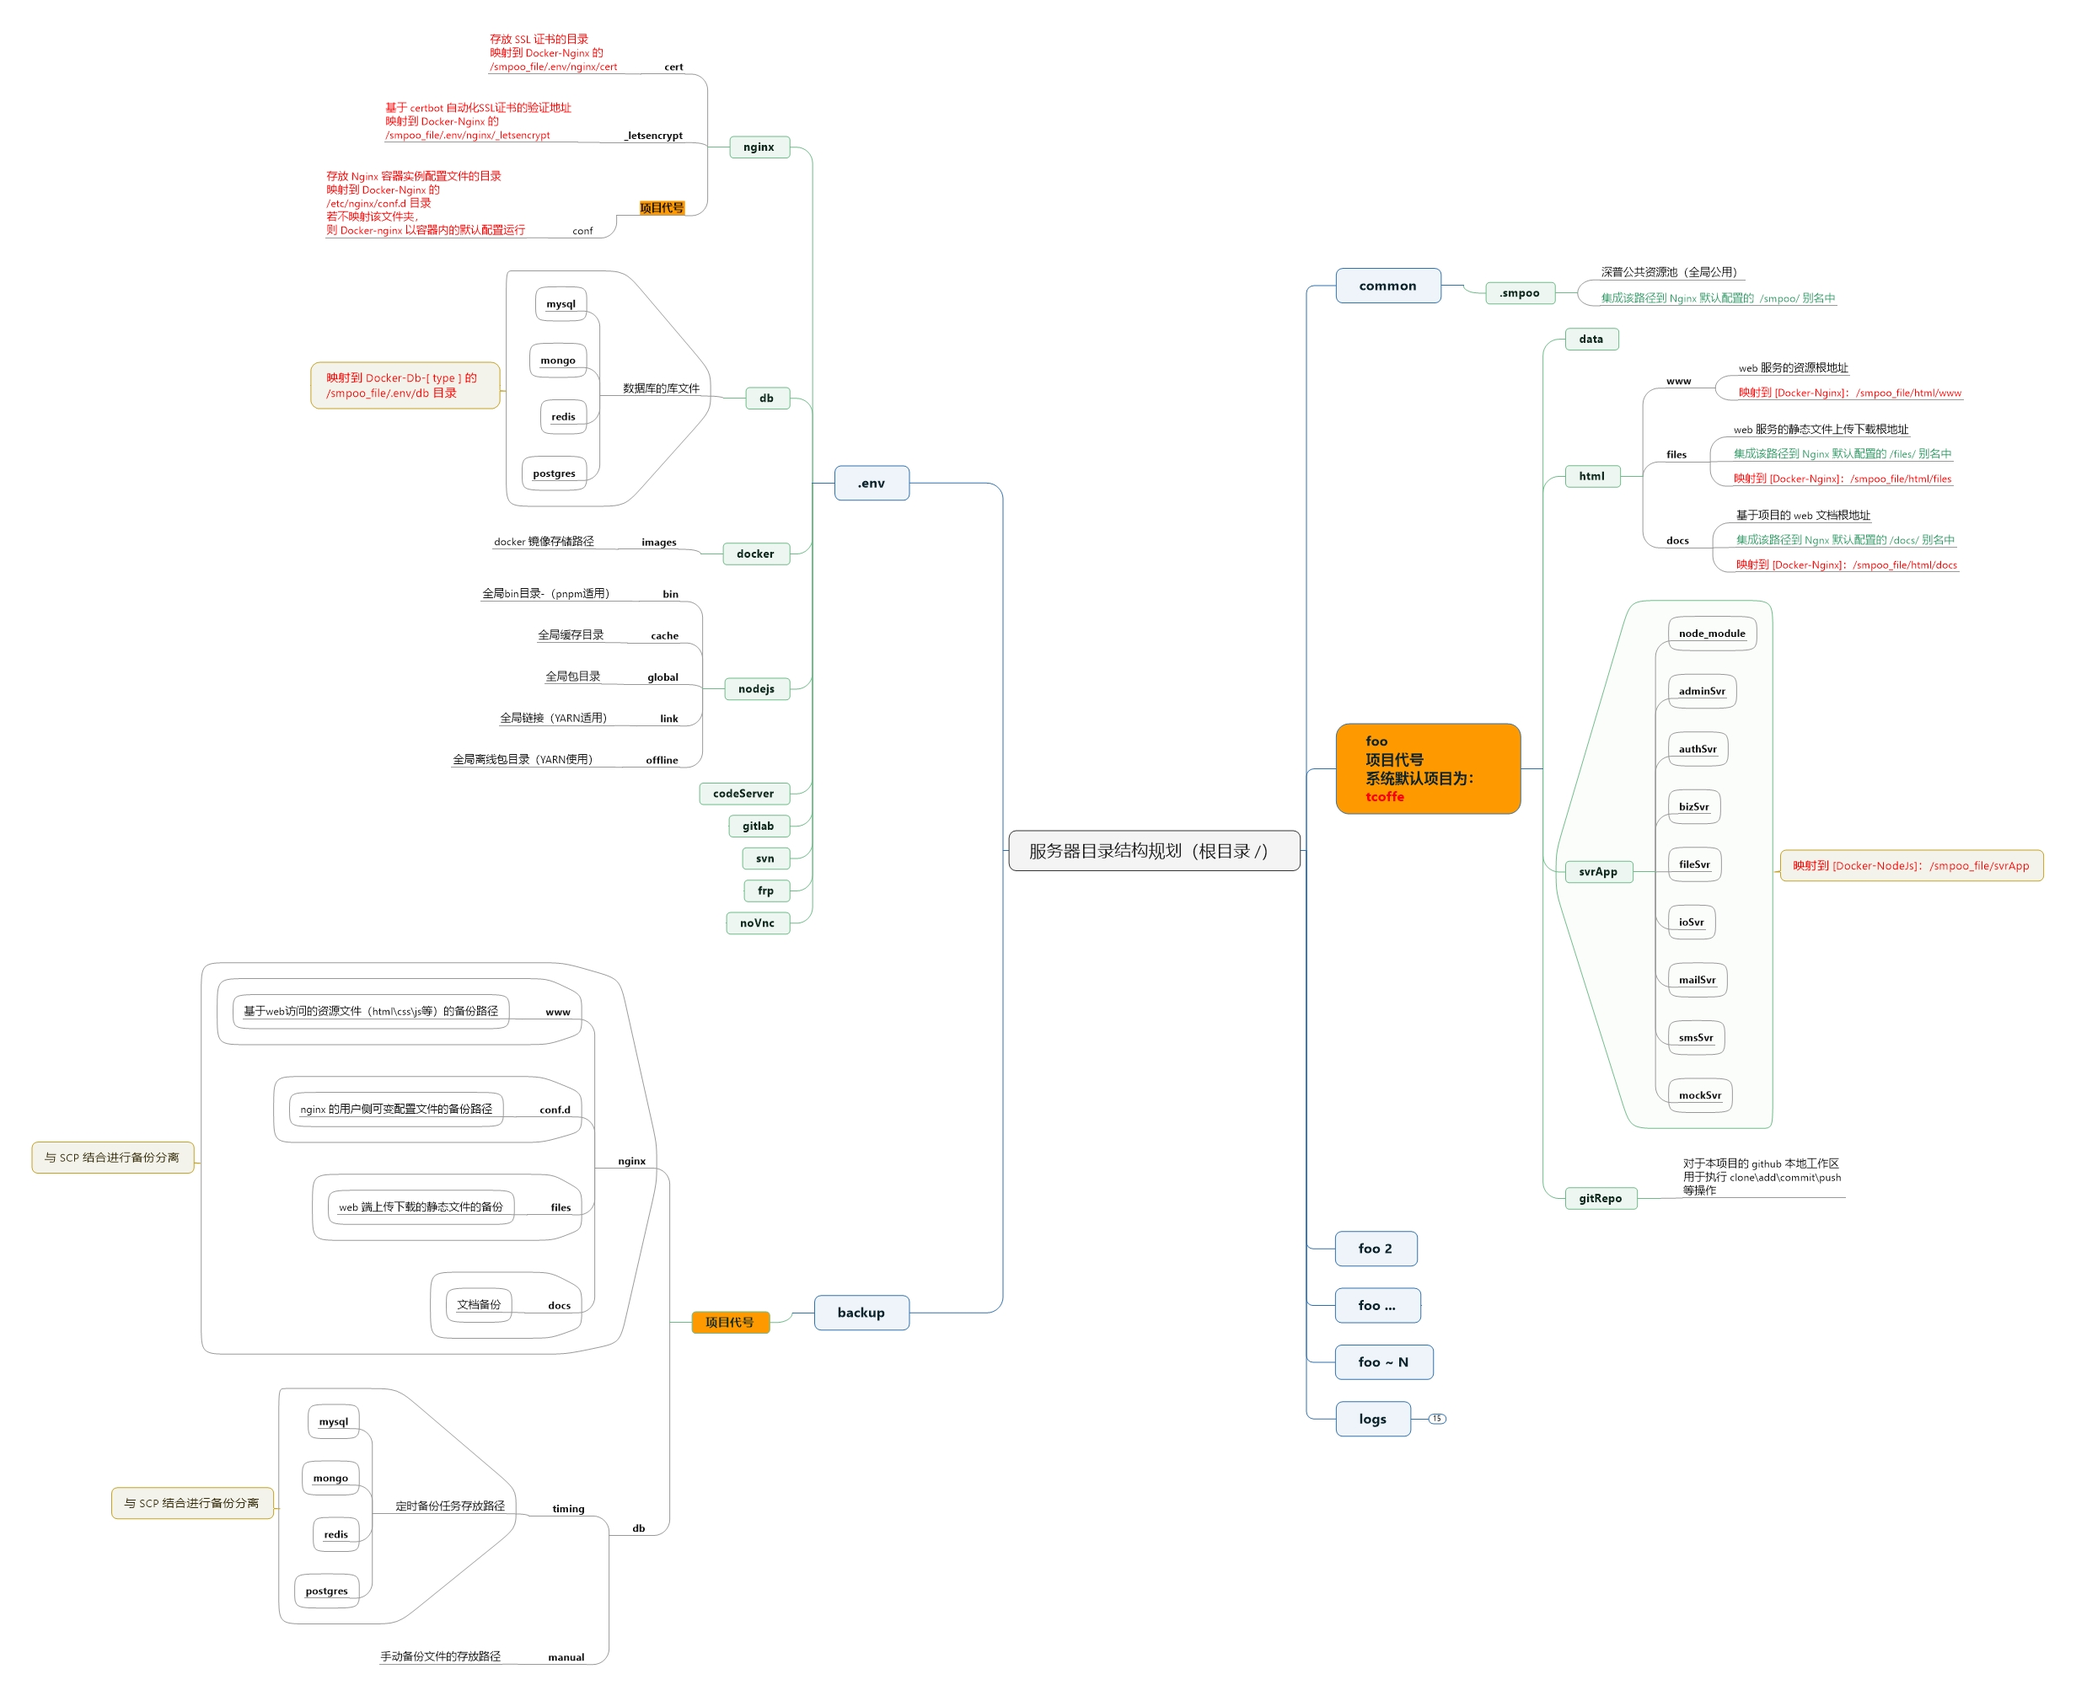
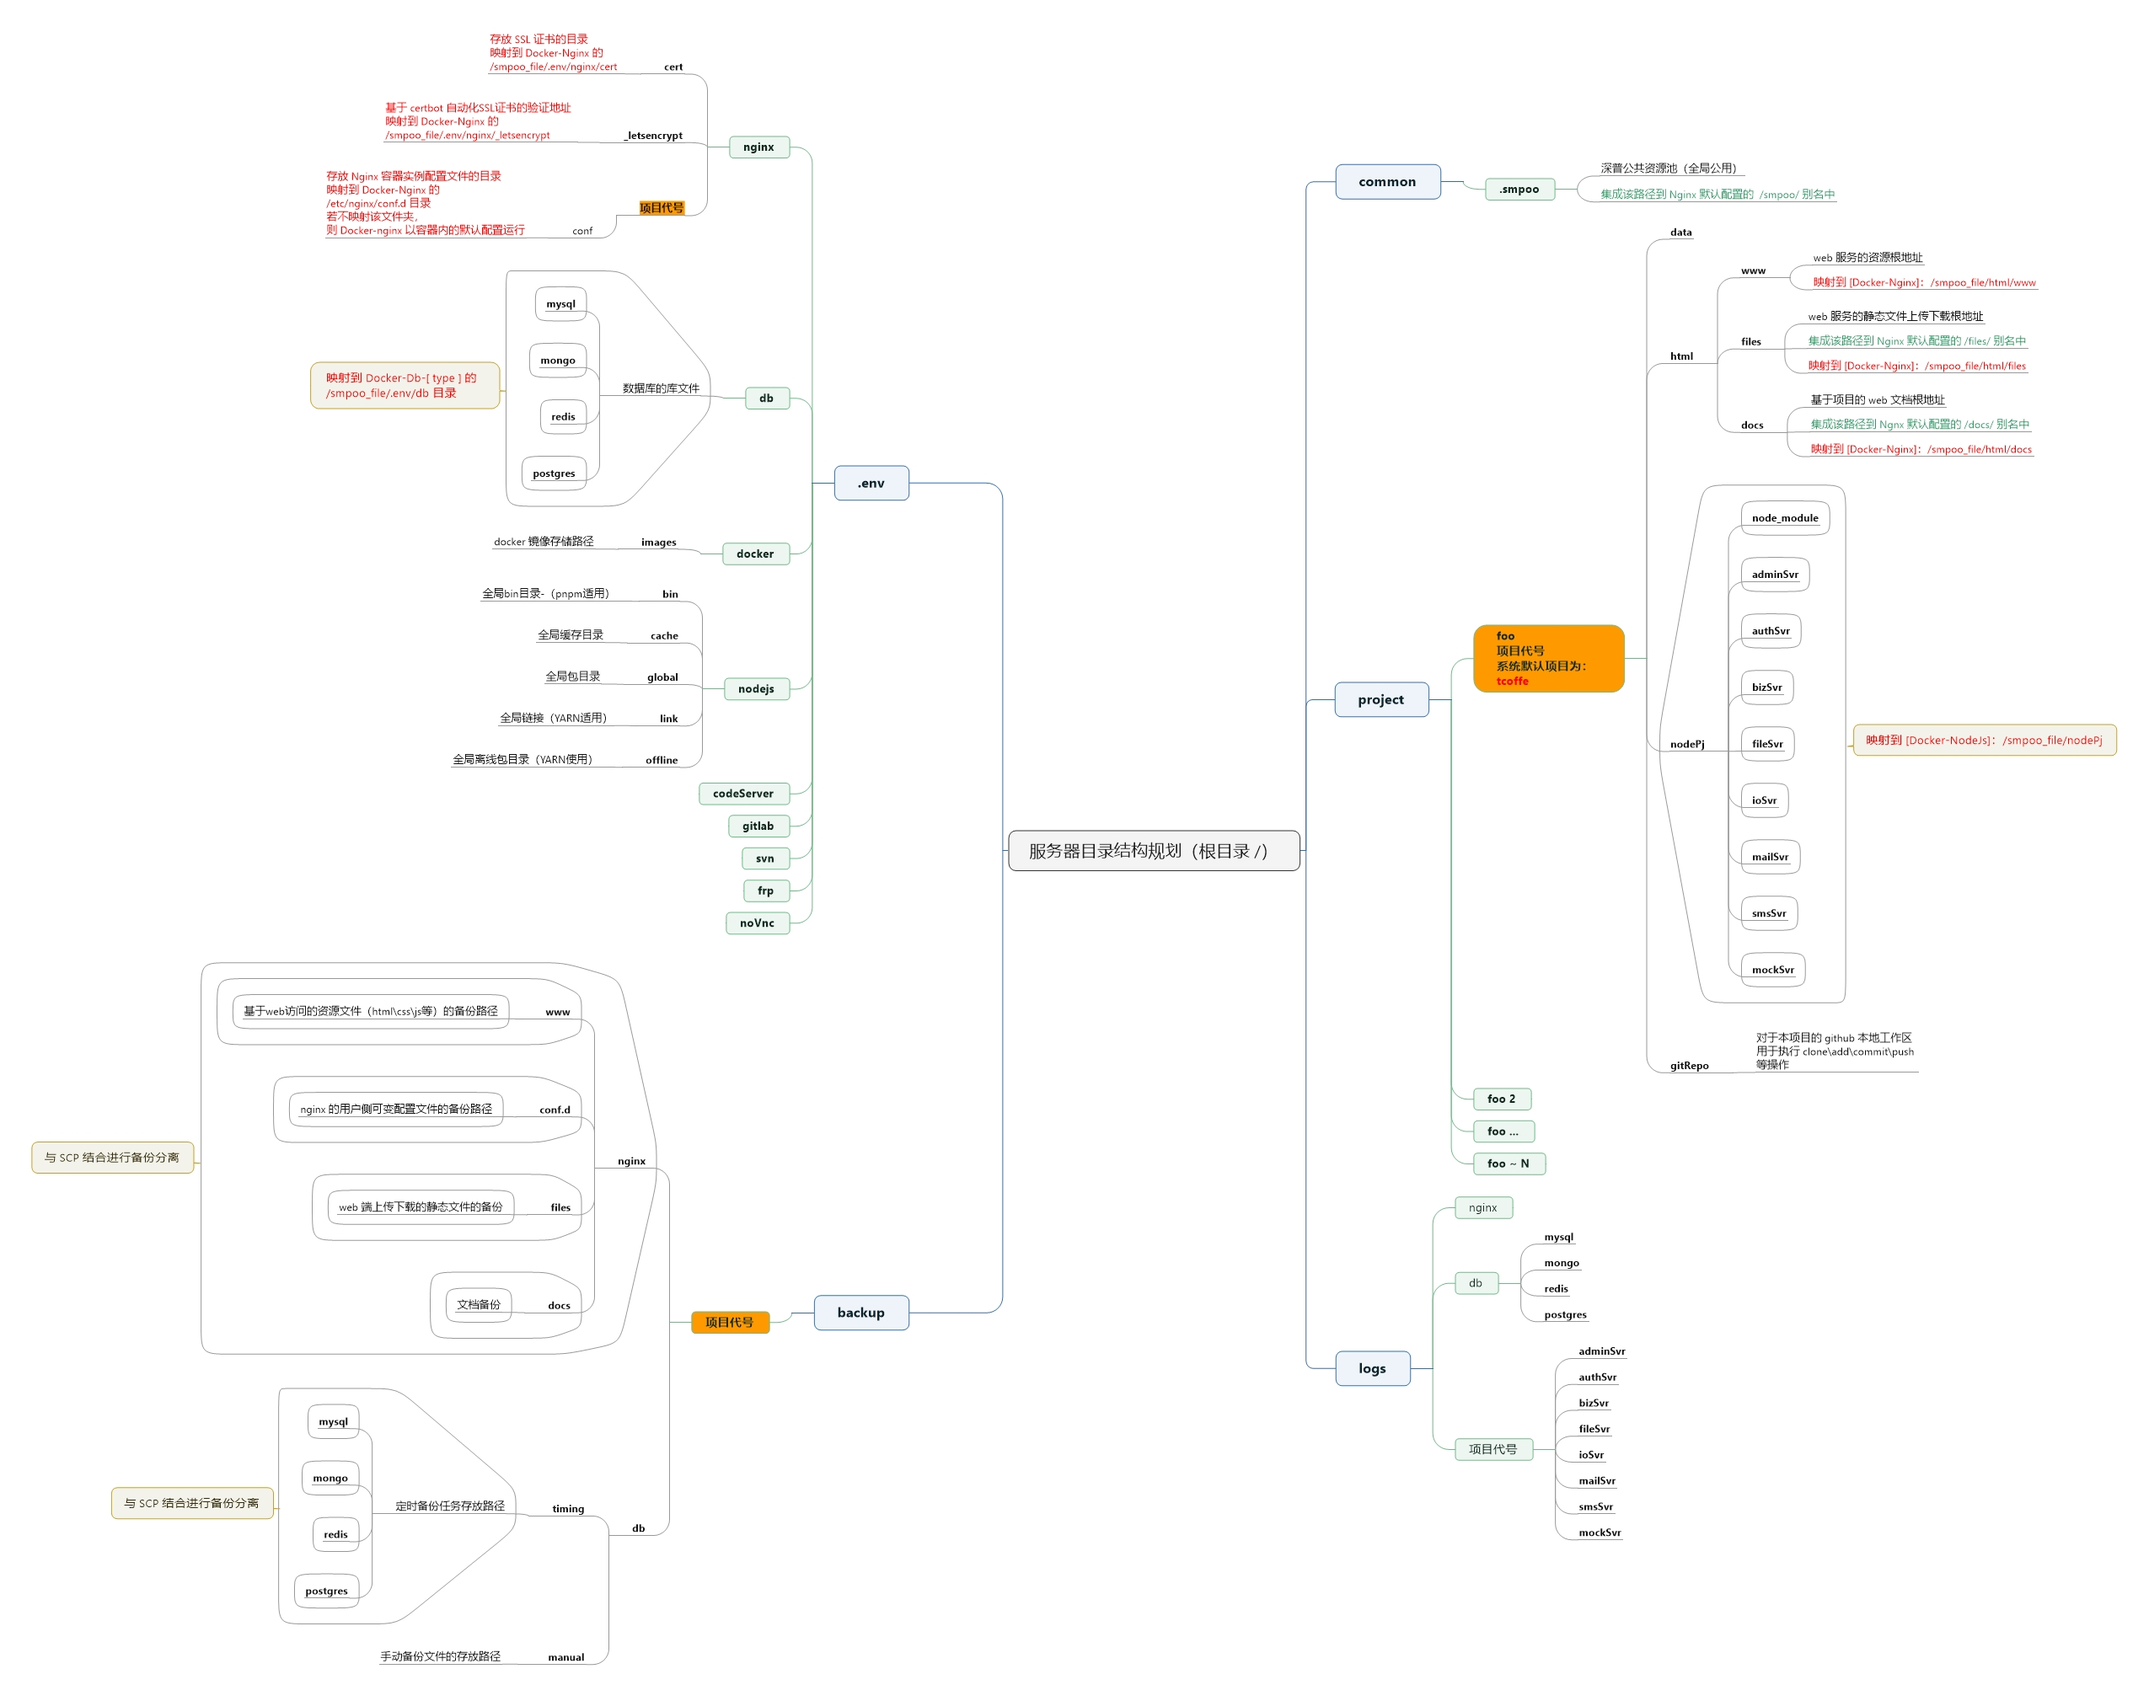
将项目根目录更改为 monoRepo 类型

diff --git a/README.md b/README.md
@@ -7,16 +7,16 @@ tFrame工程脚本集合
 ### 初始化 Linux 服务器
 > #### 推荐：(避免防火墙干扰，下载即安装)
 ```shell
-sh -c "$(wget https://cdn.jsdelivr.net/gh/fanzouguo/install-linux@18.0.0/script/install.sh -O -)"
+sh -c "$(wget https://cdn.jsdelivr.net/gh/fanzouguo/install-linux@19.0.0/script/install.sh -O -)"
 ```
 > #### 或：
 ```shell
-curl -o- https://cdn.jsdelivr.net/gh/fanzouguo/install-linux@18.0.0/script/install.sh | bash
+curl -o- https://cdn.jsdelivr.net/gh/fanzouguo/install-linux@19.0.0/script/install.sh | bash
 ```
 
 > #### 也可以在初始化时，传入项目名称，项目名称缺省为：tcoffe
 ```shell
-wget https://cdn.jsdelivr.net/gh/fanzouguo/install-linux@18.0.0/script/install.sh | sh [项目名称]
+wget https://cdn.jsdelivr.net/gh/fanzouguo/install-linux@19.0.0/script/install.sh | sh [项目名称]
 ```
 
 ## 工作空间结构
@@ -46,6 +46,33 @@ wget https://cdn.jsdelivr.net/gh/fanzouguo/install-linux@18.0.0/script/install.s
 	</tbody>
 </table>
 
+> #### 服务器端 monoRepo 默认结构
+<table class="tableWrapper">
+	<thead>
+		<tr>
+			<th class="textCenter">文件夹名称</th>
+			<th class="textCenter">说明</th>
+			<th class="textCenter">备注</th>
+		</tr>
+	</thead>
+	<tbody>
+		<tr>
+			<td>node_module</td>
+			<td>node_module 服务器端</td>
+			<td>该目录在服务器初始化后，不会立即建立，而是通过项目的 pnpm 执行包安装后创建</td>
+		</tr>
+		<tr>
+			<td>.npmrc</td>
+			<td>基于 pnpm 工作空间的配置文件</td>
+			<td>.npmrc 系文件，而非目录</td>
+		</tr>
+		<tr>
+			<td>pnpm-workspace.yaml</td>
+			<td>基于 pnpm 的 monoRepo 配置文件</td>
+			<td>pnpm-workspace.yaml 系文件，而非目录</td>
+		</tr>
+	</tbody>
+</table>
 
 > #### .env 环境文件夹
 <table class="tableWrapper">
@@ -59,7 +86,7 @@ wget https://cdn.jsdelivr.net/gh/fanzouguo/install-linux@18.0.0/script/install.s
 	<tbody>
         <!-- nginx -->
 		<tr>
-			<td rowspan="18">.env</td>
+			<td rowspan="24">.env</td>
 			<td rowspan="3">nginx</td>
 			<td colspan="2">cert</td>
 			<td>存放 SSL 证书的目录</td>
@@ -92,69 +119,104 @@ wget https://cdn.jsdelivr.net/gh/fanzouguo/install-linux@18.0.0/script/install.s
 		<tr>
 			<td colspan="2">postgres</td>
 		</tr>
-        <!-- docker -->
+		<!-- docker -->
 		<tr>
 			<td>docker</td>
 			<td colspan="2">images</td>
 			<td>docker 镜像存储路径</td>
 			<td></td>
 		</tr>
-        <!-- nodejs -->
+		<!-- nodejs - Npm -->
 		<tr>
-			<td rowspan="5">nodejs</td>
-			<td colspan="2">bin</td>
-			<td>全局bin目录-（pnpm适用）</td>
+			<td rowspan="11">nodejs</td>
+			<td rowspan="2">npmRepo</td>
+			<td>global</td>
+			<td>适用于 NPM 的全局包路径</td>
+			<td rowspan="11">[Docker-nodejs]:/smpoo_file/.env/nodejs</td>
+		</tr>
+		<tr>
+			<td>cache</td>
+			<td>适用于 NPM 的全局缓存目录</td>
+			<td></td>
+		</tr>
+		<!-- nodejs - Pnpm -->
+		<tr>
+			<td rowspan="4">pnpmRepo</td>
+			<td>bin</td>
+			<td>适用于 PNPM 的执行文件路径</td>
 			<td></td>
 		</tr>
 		<tr>
-			<td colspan="2">cache</td>
-			<td>全局缓存目录</td>
+			<td>.store</td>
+			<td>适用于 PNPM 的全局仓库路径(类似 .git 仓库)</td>
 			<td></td>
 		</tr>
 		<tr>
-			<td colspan="2">global</td>
-			<td>全局包目录</td>
+			<td>global</td>
+			<td>适用于 PNPM 的全局包路径</td>
 			<td></td>
 		</tr>
 		<tr>
-			<td colspan="2">link</td>
-			<td>全局链接（YARN适用）</td>
+			<td>cache</td>
+			<td>适用于 PNPM 的全局缓存目录</td>
+			<td></td>
+		</tr>
+		<!-- nodejs - Yarn -->
+		<tr>
+			<td rowspan="5">yarnRepo</td>
+			<td>bin</td>
+			<td>适用于 YARN 的执行文件路径</td>
 			<td></td>
 		</tr>
 		<tr>
-			<td colspan="2">offline</td>
-			<td>全局离线包目录（YARN使用）</td>
+			<td>global</td>
+			<td>适用于 YARN 的全局包路径</td>
 			<td></td>
 		</tr>
-        <!-- codeServer -->
+		<tr>
+			<td>cache</td>
+			<td>适用于 YARN 的全局缓存目录</td>
+			<td></td>
+		</tr>
+		<tr>
+			<td>link</td>
+			<td>适用于 YARN 的全局链接目录</td>
+			<td></td>
+		</tr>
+		<tr>
+			<td>offline</td>
+			<td>适用于 YARN 的全局离线安装包目录</td>
+			<td></td>
+		</tr>
+		<!-- codeServer -->
 		<tr>
 			<td>codeServer</td>
 			<td colspan="2"></td>
 			<td>code-server 服务环境路径</td>
 			<td>[Docker-codeServer]:/待补充</td>
 		</tr>
-        <!-- gitLab -->
+		<!-- gitLab -->
 		<tr>
 			<td>gitLab</td>
 			<td colspan="2"></td>
 			<td>gitLab 服务环境路径</td>
 			<td>[Docker-gitLab]:/待补充</td>
 		</tr>
-        <!-- svn -->
+		<!-- svn -->
 		<tr>
 			<td>svn</td>
 			<td colspan="2"></td>
 			<td>svn 服务环境路径</td>
 			<td>[Docker-svn]:/待补充</td>
 		</tr>
-        <!-- frp -->
+		<!-- frp -->
 		<tr>
 			<td>frp</td>
 			<td colspan="2"></td>
 			<td>frp 远程穿透服务环境路径</td>
 			<td>[Docker-frp]:/待补充</td>
 		</tr>
-        <!-- noVnc -->
+		<!-- noVnc -->
 		<tr>
 			<td>noVnc</td>
 			<td colspan="2"></td>
@@ -169,13 +231,14 @@ wget https://cdn.jsdelivr.net/gh/fanzouguo/install-linux@18.0.0/script/install.s
 <table class="tableWrapper">
 	<thead>
 		<tr>
-			<th colspan="3" class="textCenter">文件夹名称</th>
+			<th colspan="4" class="textCenter">文件夹名称</th>
 			<th class="textCenter">说明</th>
 			<th class="textCenter">对应容器内路径</th>
 		</tr>
 	</thead>
 	<tbody>
 		<tr>
+			<td rowspan="15"><span class="projectCode">project</span></td>
 			<td rowspan="14"><span class="projectCode">项目代号</span></td>
 			<td>data</td>
 			<td>系统默认项目代号为：tcoffe</td>
@@ -198,10 +261,10 @@ wget https://cdn.jsdelivr.net/gh/fanzouguo/install-linux@18.0.0/script/install.s
 			<td>[Docker-db-redis]:/smpoo_file/html/docs</td>
 		</tr>
 		<tr>
-			<td rowspan="9">svrApp</td>
+			<td rowspan="9">nodePj</td>
 			<td>node_module</td>
 			<td>服务端主程序依赖的 NodeJs 包路径</td>
-			<td></td>
+			<td rowspan="9">[Docker-nodejs]:/smpoo_file/nodePj</td>
 		</tr>
 		<tr>
 			<td>adminSvr</td>
@@ -247,6 +310,11 @@ wget https://cdn.jsdelivr.net/gh/fanzouguo/install-linux@18.0.0/script/install.s
 			<td colspan="2">gitRepo</td>
 			<td>本项目的 github 操作空间</td>
 			<td></td>
+		</tr>
+		<tr>
+			<td colspan="3">项目代号-2</td>
+			<td>另一个项目的根文件夹</td>
+			<td>[Docker-nodejs]:/smpoo_file/nodePj</td>
 		</tr>
 	</tbody>
 </table>
